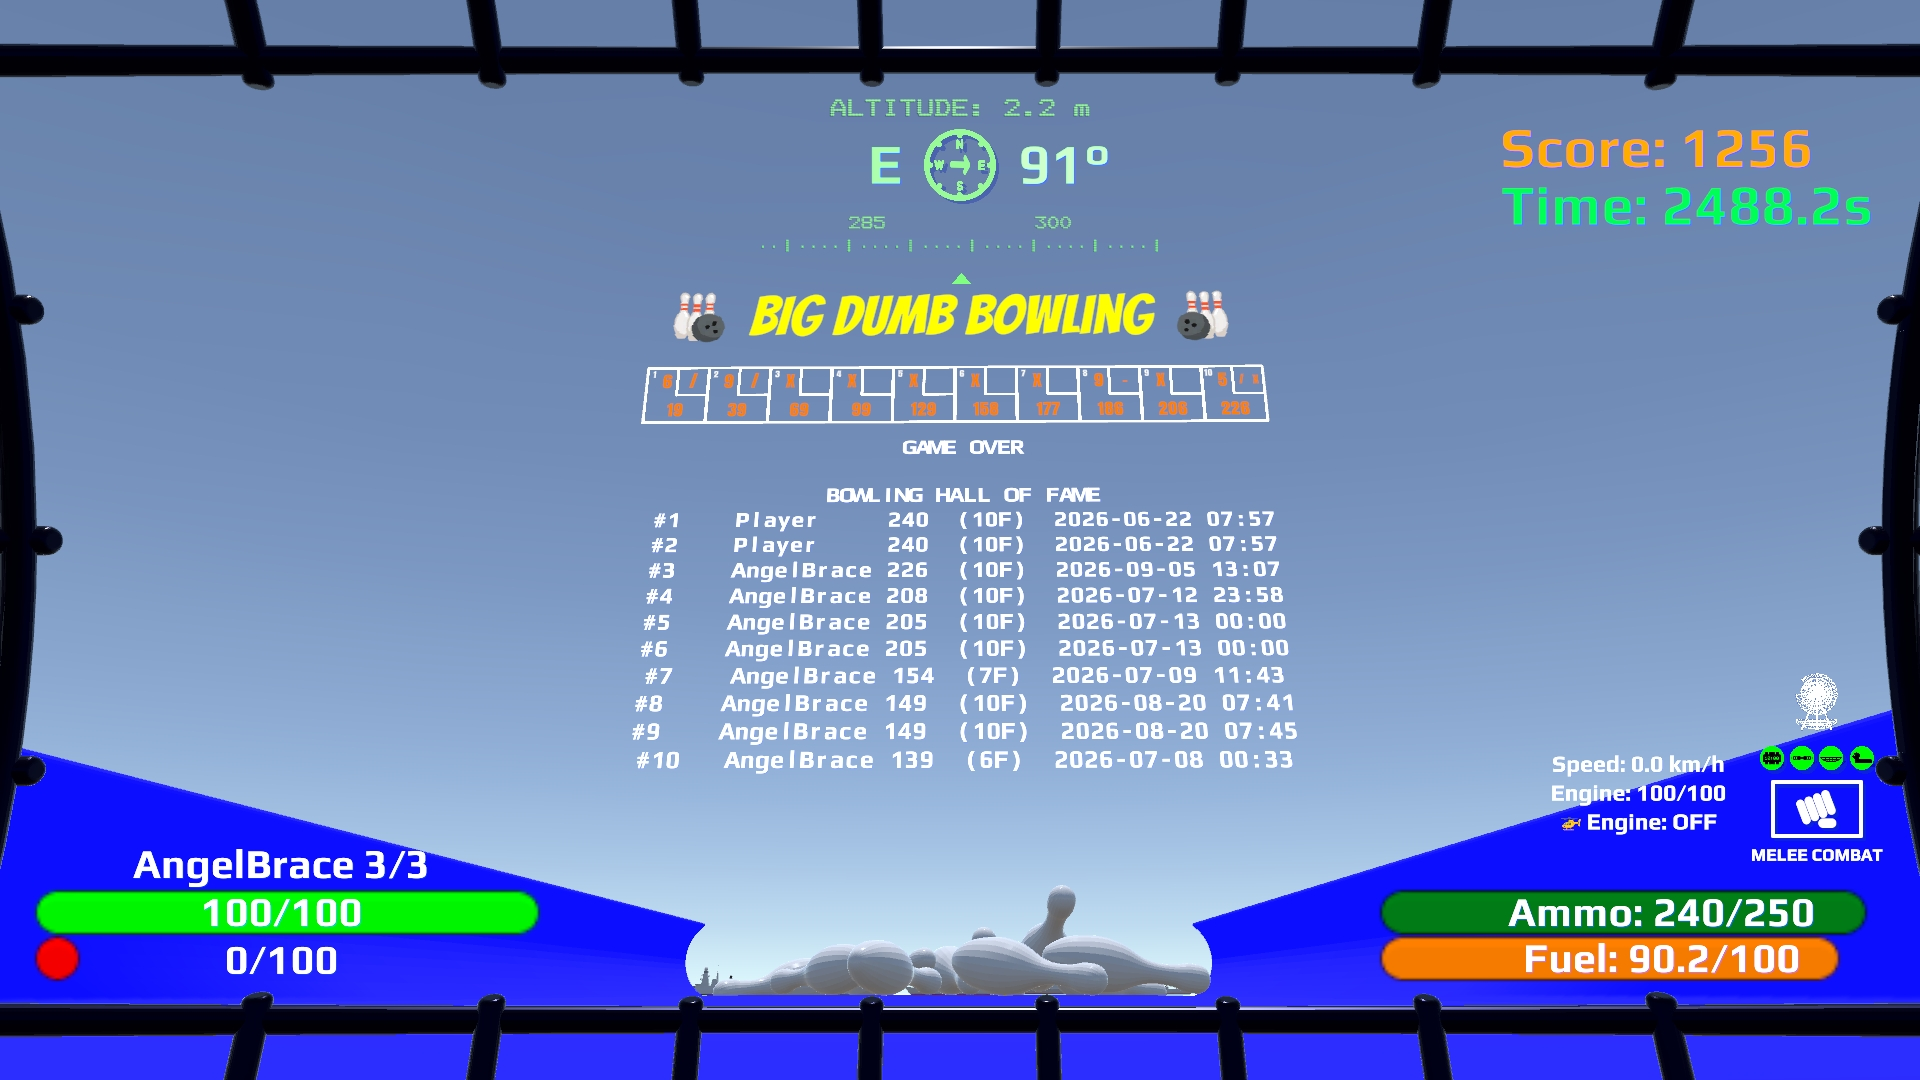
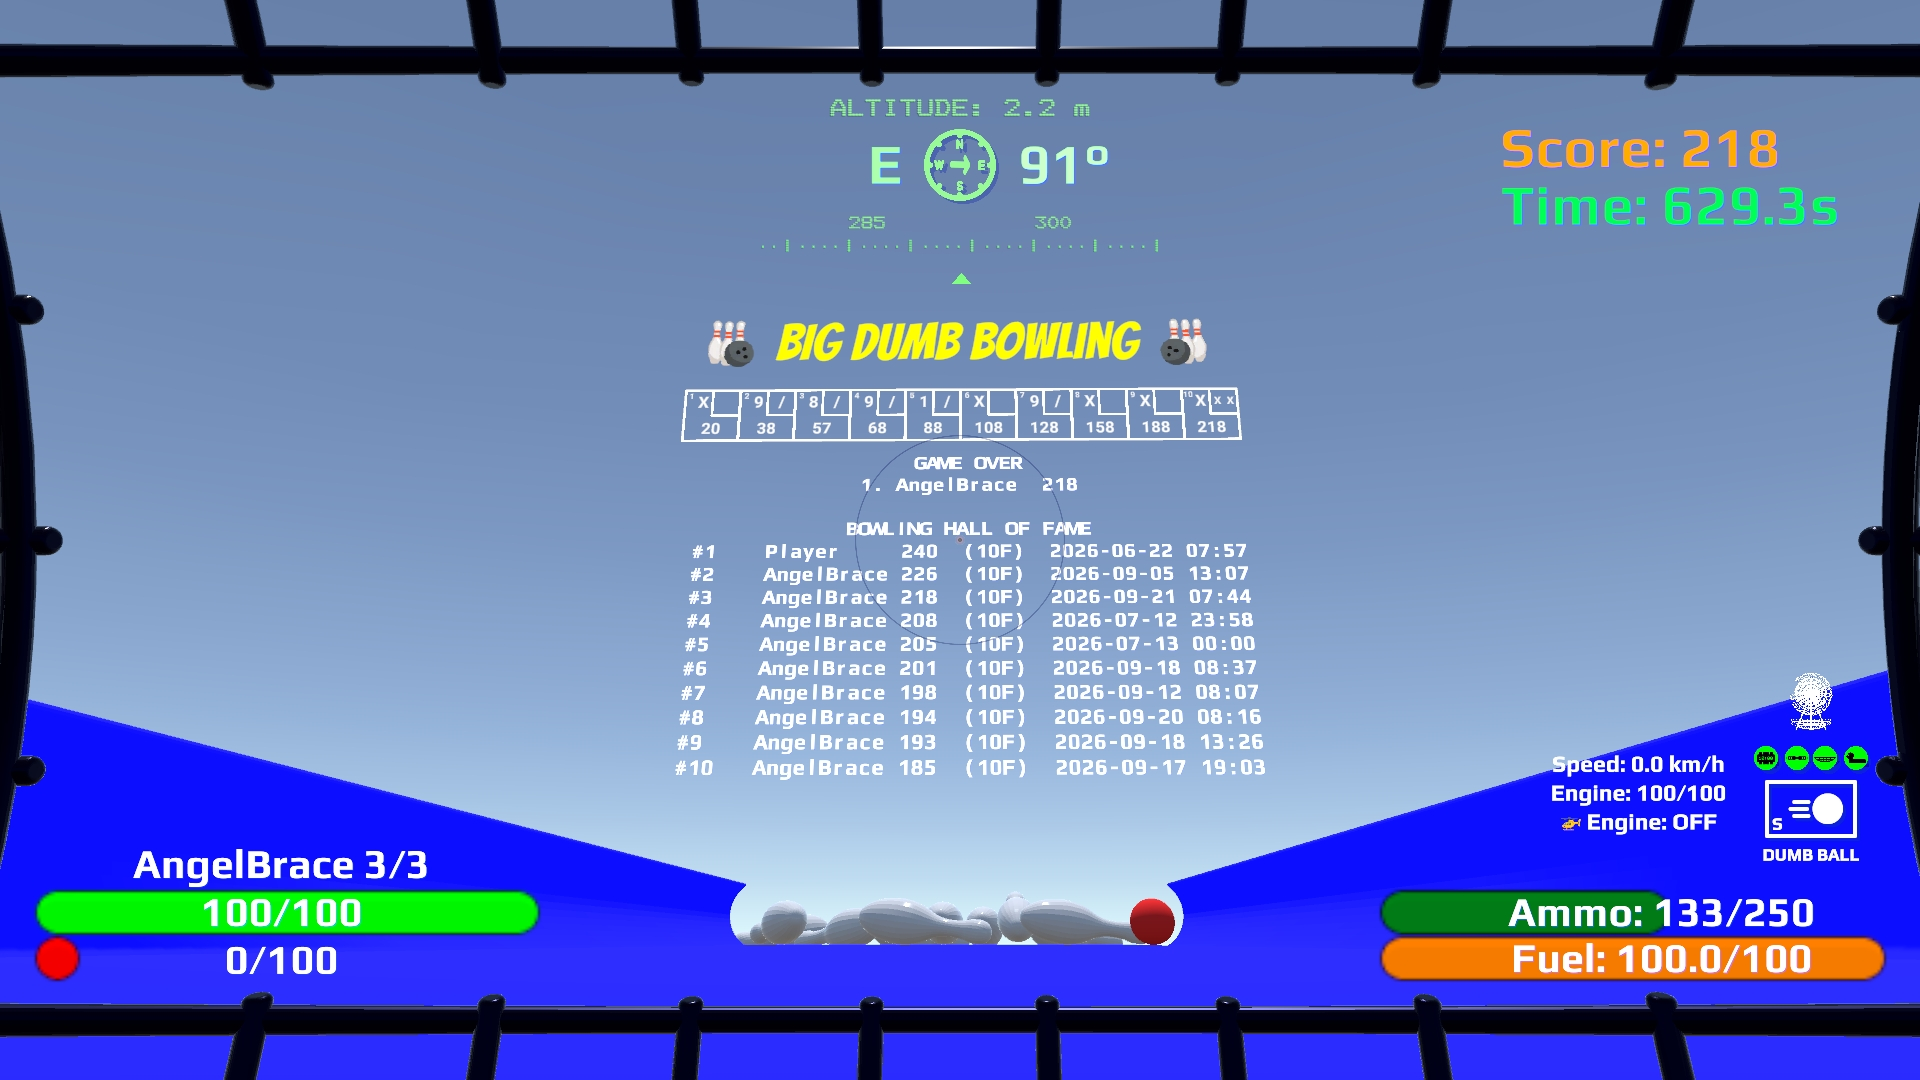
Publish the finished guide screenshots and the live multiplayer rules.

diff --git a/index.html b/index.html
@@ -302,11 +302,15 @@
         <strong>Live multiplayer session:</strong> after a Play / Explore run is already going, the <strong>host</strong>
         can pick another Play venue or Explore from <strong>Game Mode</strong>. Everyone stays in the same Photon room.
         The old mini-game ends — the Ray Racer bike is removed, and hockey bots are destroyed — then everyone
-        teleports to the new seats and gets a <strong>lobby</strong> (no auto-start). Walk to that venue’s OPS / stele
-        and press <strong>START</strong> there. Combat modes (Modern / Quest / Classic / Infinite) stay a full
-        <strong>New Game</strong>. <strong>New Game</strong> on your own machine does the same cleanup before the next mode starts.
+        is moved to the new game. That game is <strong>reset to a lobby</strong>. A match that was already going does not
+        continue, and the new one does not start by itself. The host’s OPS for that game opens so the host can press
+        <strong>Start</strong>. Chess resets the board at the stele. Explore only moves everyone.
+        Combat modes (Modern / Quest / Classic / Infinite) stay a full
+        <strong>New Game</strong>. <strong>New Game</strong> on your own machine does the same cleanup before the next mode starts,
+        and it does not restart the other rider.
         Guests cannot switch. Overlays such as Game Selection close so everyone returns to the
         <strong>3DGameHUD</strong>; leftover Game Info balloon text from the previous venue is cleared.
+        The other rider’s bike follows a short moment behind, so the motion stays smooth.
       </p>
       <h3>The Escaper (Modern)</h3>
       <p>
@@ -935,6 +939,9 @@
         <strong>Game Roster</strong> sits on the HUD. Ray Racer fills the bars it has riders for.
         Solo, with the cursor free, right-click a Ray Racer bar to open that bike’s color list.
         Hockey uses all eight bars: Team A on the first four, Team B on the last four. Empty hockey bars say <strong>Open</strong>.
+        Until the host rearranges them, the host is the Team A captain on the top bar and the first other rider is the Team B captain on the first bottom bar.
+        The host can drag a name from one side to the other while the cursor is free. Drop it on a name to swap. Drop it on <strong>Open</strong> to move.
+        Each header shows that side’s captain nickname in the captain’s ray color. An empty side stays <strong>Team A</strong> or <strong>Team B</strong>.
         <br><br>
         <strong>Score history:</strong> <kbd>F8</kbd> is the pause scores panel.
         The <strong>3D GameScoreBoard</strong> at the south of the island is a separate history of solo and multiplayer scores, including Ray Racer and Hockey.
@@ -1488,7 +1495,7 @@ AngelBraceToo Sunk: ST-9, ST-11, 8</pre>
         <li><strong>Free Ray</strong> — mouse look also turns the bike.</li>
         <li><strong>Classic Tron</strong> — travel stays on the compass. A left or right press is saved, and the bike turns 90 degrees only when it reaches the next even grid line (every 2 units). Odd positions do not turn. The view eases into the new heading.</li>
         <li>Hold <kbd>Shift</kbd> while going forward to boost. The engine overheats if you hold it too long, then cools before boost works again.</li>
-        <li>A wall, a pillar, or a light-cycle beam stops you. The camera orbits that rider while everyone else keeps moving, and the beam sinks.</li>
+        <li>A wall, a pillar, or a light-cycle beam stops you. The other rider’s beam stops you too, including the piece still being drawn. Your own ribbon does not, until it is a finished wall. The camera orbits that rider while everyone else keeps moving, and the beam sinks.</li>
         <li><strong>Continue</strong> puts you back in the race where you stopped when a life remains, with no new countdown.</li>
         <li><strong>Restart</strong> on that panel starts another Ray Racer round and returns to Ready. It does not dump you to Game Selection.</li>
       </ul>
@@ -1510,9 +1517,9 @@ AngelBraceToo Sunk: ST-9, ST-11, 8</pre>
       <p>
         <strong>Play Hockey</strong> seats the room at the eight spots around the rink
         (<strong>HockeyPlayer1</strong> through <strong>HockeyPlayer8</strong>).
-        Walk onto a team stand to join that side.
-        The host is always captain of <strong>Team A</strong>, even if they walk to the other stand.
-        The first rider who stays on <strong>Team B</strong> is that side’s captain.
+        The host starts as captain of <strong>Team A</strong>.
+        In a room, the first other rider starts as captain of <strong>Team B</strong>.
+        The host can drag either of them, or any bot, to the other side.
         Console <code>/hockey</code> turns the arena on if it was left inactive for a build.
       </p>
       <p>
@@ -1558,12 +1565,13 @@ AngelBraceToo Sunk: ST-9, ST-11, 8</pre>
       <ul>
         <li>Drive into the puck and it leaves along the nose. That is a straight nudge or slap. <kbd>LMB</kbd> kicks left. <kbd>RMB</kbd> kicks right.</li>
         <li>Cruise speed is a nudge. Full speed is a slap, capped by the arena’s max puck speed. Between those, the kick grows with the bike.</li>
-        <li>Bots do the same. Lined up on the enemy net, the kick is straight. Off that line, they pick a side.</li>
+        <li>You can ride up the curved sides of the rink. The other rider follows that path.</li>
+        <li>Bots do the same, and they ride the curve too. Lined up on the enemy net, the kick is straight. Off that line, they pick a side.</li>
         <li>You and any online rider can leave or enter through the nets. Bots cannot drop below the ice.</li>
         <li>A puck that leaves the play zone respawns at center. A shot that beats the goal mouth, or the stand just behind that mouth, scores for the other team.</li>
       </ul>
       <h3>Roster</h3>
-      <p>Once <kbd>E</kbd> has freed the cursor, right-click a bar:</p>
+      <p>Once <kbd>E</kbd> has freed the cursor, the host can drag a name between Team A and Team B. Drop it on a name to swap. Drop it on <strong>Open</strong> to move. Right-click a bar:</p>
       <ul>
         <li><strong>Open</strong> → <strong>Activate</strong>. That adds a bot on that team.</li>
         <li>A bot → <strong>Color</strong> and <strong>Deactivate</strong>.</li>
@@ -1648,15 +1656,15 @@ AngelBraceToo Sunk: ST-9, ST-11, 8</pre>
         <li><strong>Direction indicators</strong> — quest items clockwise in the order you get them (bowl, propeller, duck raft); <strong>FlipChip</strong> is on the same band but is not a quest item. Icons slide with bearing and scale with distance; DetPack has inventory only, no arrow.</li>
         <li><strong>Scores</strong> — <kbd>F8</kbd> open, <kbd>Space</kbd> cycle (Escaper, Bowling, Billiards, BaffleShots, Chess, Tetris, Checkers, Connect 4, Ray Racer, Hockey). The south <strong>GameScoreBoard</strong> is the 3D history and does not open F8. Shared rooms merge that history so a visitor can read scores recorded on another computer.</li>
         <li><strong>Whose turn / who won</strong> — top HUD ~7s (Pool also shows <strong>Wins!</strong>); <kbd>Caps Lock</kbd> for the balloon. <strong>Tetris</strong> is live — 2P shows <strong>Players Ready</strong>, then <strong>Wins!</strong> / <strong>You Lose!</strong> / <strong>Draw!</strong> / <strong>Co-op Clear!</strong> / <strong>Sprint Clear!</strong> / <strong>Time's Up!</strong>.</li>
-        <li><strong>Mini-game host</strong> — only the host (the player who started the room) opens, starts, resets, and (Pool) changes mode; everyone else <kbd>RMB</kbd> joins while recruiting (<strong>Pool:</strong> host <kbd>Shift</kbd>+<kbd>LMB</kbd> opens lobby first; guest <kbd>RMB</kbd> or <strong>Join</strong> on the yellow grid at the table). <strong>Live venue switch:</strong> host <strong>Game Mode</strong> hops Play / Explore mid-session (combat modes = New Game). <strong>Tetris:</strong> host Engage at OPS, then <strong>South Play Spot</strong> for <strong>5s</strong> to start Playing; guests claim North via non-host <strong>Start</strong>; spawn host South / guest North. <strong>BaffleShots:</strong> East host / West guest; Confirm then host Start (Waiting… if the host locked first); fog until hits; host owns Classic / Group Sink / Repulse Mines settings. <strong>Checkers:</strong> host owns variant wheel, Start, Reset; guest <strong>Join</strong> marks lobby; <strong>FlipChip</strong> button + pre-game toss sets Player1/Host color before <strong>Start</strong>. <strong>Chess 2P:</strong> host START / Clear only; no Level / Puzzles / Custom / Leorik on the stele.</li>
+        <li><strong>Mini-game host</strong> — only the host (the player who started the room) opens, starts, resets, and (Pool) changes mode; everyone else <kbd>RMB</kbd> joins while recruiting (<strong>Pool:</strong> host <kbd>Shift</kbd>+<kbd>LMB</kbd> opens lobby first; guest <kbd>RMB</kbd> or <strong>Join</strong> on the yellow grid at the table). <strong>Live venue switch:</strong> host <strong>Game Mode</strong> hops Play / Explore mid-session, resets that game to a lobby, and opens its OPS so the host can press <strong>Start</strong> (combat modes = New Game; Chess resets at the stele). <strong>Tetris:</strong> host Engage at OPS, then <strong>South Play Spot</strong> for <strong>5s</strong> to start Playing; guests claim North via non-host <strong>Start</strong>; spawn host South / guest North. <strong>BaffleShots:</strong> East host / West guest; Confirm then host Start (Waiting… if the host locked first); fog until hits; host owns Classic / Group Sink / Repulse Mines settings. <strong>Checkers:</strong> host owns variant wheel, Start, Reset; guest <strong>Join</strong> marks lobby; <strong>FlipChip</strong> button + pre-game toss sets Player1/Host color before <strong>Start</strong>. <strong>Chess 2P:</strong> host START / Clear only; no Level / Puzzles / Custom / Leorik on the stele.</li>
         <li><strong>Checkers</strong> — solo is always vs AI (Player1 = you), a multiplayer room is always 2P. Wheel the OPS panel for the variant (locks on Start or the first move, unlocks on host Reset). <strong>FlipChip</strong> before <strong>Start</strong>: top color = Player1/Host color (default Black). On the board: stand on a piece (<strong>blue</strong>), aim a <strong>green sphere</strong> to land or a <strong>green circle</strong> to capture (aim brightens green), <kbd>RMB</kbd> to pend (<strong>orange</strong>), <kbd>LMB</kbd> to commit, <kbd>Backspace</kbd> to cancel. <kbd>Tab</kbd> opens <strong>Quick2DCheckersBoard</strong> — a 2D display of the 3D board, not a second control scheme. Aim the far sphere to take a whole jump chain; once a chain starts you must finish it.</li>
         <li><strong>BaffleShots</strong> — stand on the yellow grid at Nav OPS. Nav Plan randomizes fleet (+ Repulse Mines if on); <kbd>RMB</kbd> drag ships or mines in setup. Classic hides <strong>Group?</strong> / <strong>Ship?</strong> until a group sinks (Group Sink stays on). Hits are orange until sunk, then red. A hit mine <strong>repulses</strong> the shot back — attacker repairs and skips a turn, opponent gets a bonus shot. Game over reveals leftover ships/mines. <strong>2P Confirm:</strong> host first → Waiting… then Start; guest first → host button is Start.</li>
         <li><strong>Pool cue</strong> — walk onto the cue to shoot (wheel = power, <kbd>LMB</kbd> = stroke). A pocketed or off-table cue is <em>Cue scratched</em> when the balls stop; a ball you legally pocketed on that shot still scores (<em>Name sunk … — cue scratched</em>). The placer also sees <em>stand on cue + SHIFT</em>. Object balls off the table do not re-spot the cue.</li>
         <li><strong>Goto map</strong> — <kbd>F4</kbd> scrolls Otaku Island. A button’s name is the <code>/goto</code> place (<code>SouthParthenonButton</code> is <code>SouthParthenon</code>).</li>
         <li><strong>Tetris</strong> — Engage → host on South <strong>5s</strong> → Playing. Offline includes Marathon, Sprint, and Ultra. In a room the host wheel is 2-player only. Clamp on a PlayZone block (blue South / red North): stay still <strong>3s</strong> (or immediately if already there). While clamped the cage cannot walk — WASD moves the piece. Jump off to break clamp. Stick/D-Pad or <kbd>A</kbd>/<kbd>D</kbd> move, <kbd>Q</kbd>/<kbd>LB</kbd> · <kbd>E</kbd>/<kbd>RB</kbd> rotate, <kbd>W</kbd>/stick↑ flip, <kbd>C</kbd>/<kbd>Y</kbd> Hold, soft or <kbd>RT</kbd> hard; leftover board stays until Start/Reset. <strong>Spawn:</strong> host South, guest North.</li>
-        <li><strong>Ray Racer</strong> — the deck is weapons-free. The host and the first three others ride; anyone else spectates (<strong>Previous</strong> / <strong>Escaper</strong> / <strong>Next</strong>). A green <strong>READY</strong> button (or <kbd>Enter</kbd> / gamepad <kbd>A</kbd>) starts the countdown; a room waits until every rider has pressed Ready. <kbd>E</kbd> hides Ready and opens <strong>RayRacerOPS</strong>. Then <strong>GRID</strong>, <strong>3</strong>, <strong>2</strong>, <strong>1</strong>, <strong>GO</strong>. Hold gas from <strong>2</strong> through <strong>GO</strong> for a rocket start; gas on the red <strong>3</strong> is a burnout. Opens in third person; <kbd>V</kbd> cycles Normal, Full Screen, Third Person. On the deck, <kbd>1</kbd>–<kbd>5</kbd> are cameras (chase, left, right, front, top) and weapons do not switch. Host mode wheel: <strong>Free Ray</strong> or <strong>Classic Tron</strong> (90-degree turns on even 2-unit lines). Host <strong>Theme</strong> recolors the floor, grid, border, and pillars. Host sky, grid-line, and floor-fade sliders. Your music and bike color. Solo, with the cursor free, right-click a Game Roster bar for that bike’s color. The computer bike is grey with a white ray. A wall, pillar, or beam crashes you. <strong>Continue</strong> uses a remaining life with no new countdown. <strong>Start</strong> / <strong>Reset</strong> / <strong>Restart</strong> begin a fresh round at Ready. <code>/tron</code> is 1 life, <code>/raylives</code> is 3. Off the island, <kbd>E</kbd> mounts or dismounts a Ray Racer bike you have found, and does nothing if you have not found one. On the GamePlane that bike is scale 1.</li>
+        <li><strong>Ray Racer</strong> — the deck is weapons-free. The host and the first three others ride; anyone else spectates (<strong>Previous</strong> / <strong>Escaper</strong> / <strong>Next</strong>). A green <strong>READY</strong> button (or <kbd>Enter</kbd> / gamepad <kbd>A</kbd>) starts the countdown; a room waits until every rider has pressed Ready. <kbd>E</kbd> hides Ready and opens <strong>RayRacerOPS</strong>. Then <strong>GRID</strong>, <strong>3</strong>, <strong>2</strong>, <strong>1</strong>, <strong>GO</strong>. Hold gas from <strong>2</strong> through <strong>GO</strong> for a rocket start; gas on the red <strong>3</strong> is a burnout. Opens in third person; <kbd>V</kbd> cycles Normal, Full Screen, Third Person. On the deck, <kbd>1</kbd>–<kbd>5</kbd> are cameras (chase, left, right, front, top) and weapons do not switch. Host mode wheel: <strong>Free Ray</strong> or <strong>Classic Tron</strong> (90-degree turns on even 2-unit lines). Host <strong>Theme</strong> recolors the floor, grid, border, and pillars. Host sky, grid-line, and floor-fade sliders. Your music and bike color. Solo, with the cursor free, right-click a Game Roster bar for that bike’s color. The computer bike is grey with a white ray. A wall, pillar, or beam crashes you. The other rider’s beam crashes you too, including the piece still being drawn. Your own ribbon does not, until it is a finished wall. <strong>Continue</strong> uses a remaining life with no new countdown. <strong>Start</strong> / <strong>Reset</strong> / <strong>Restart</strong> begin a fresh round at Ready. <code>/tron</code> is 1 life, <code>/raylives</code> is 3. Off the island, <kbd>E</kbd> mounts or dismounts a Ray Racer bike you have found, and does nothing if you have not found one. On the GamePlane that bike is scale 1.</li>
         <li><strong>Room chat</strong> — in a Photon room, <kbd>G</kbd> opens the panel. A plain line goes to everyone. <code>@Nick</code> is a private whisper. During hockey, <code>@ATeam</code>, <code>@BTeam</code>, and <code>@team</code> are side chat. <code>/me</code>, <code>/who</code>, <code>:puck:</code>, <code>:wave:</code>, <code>:star:</code>. Host <code>/ban @Nick</code> and <code>/unban @Nick</code>. <code>/ignore</code> is only your chat. The same commands work in the <kbd>F9</kbd> console. An incoming line flashes that rider’s Game Roster bar.</li>
-        <li><strong>Hockey Arena</strong> — eight spots, four a side. Host is Team A captain. Walk to a stand to join. <kbd>E</kbd> inside any arena collider opens <strong>Hockey Arena OPS</strong> (Start, Reset, Fill open seats) and frees the cursor, including during a game. The puck drops onto center ice at face-off. <kbd>LMB</kbd> kicks left, <kbd>RMB</kbd> kicks right, and neither is a straight hit along the nose. Cruise nudges; full speed slaps. A goal toast reads <strong>Red scores for A Team</strong>. The sky board shows <strong>A 1&nbsp;&nbsp;&nbsp;&nbsp;B 0</strong>. Wheels and the net you defend use the captain’s ray color; the body color stays personal. With the cursor free, right-click an <strong>Open</strong> bar to <strong>Activate</strong> a bot, or a bot for <strong>Color</strong> / <strong>Deactivate</strong>. Even game: host plus seven bots. Solo bots are remembered next launch. In a room the host and the first seven others play; the rest spectate. First to 3. Humans can ride out through the nets; bots stay on the ice.</li>
+        <li><strong>Hockey Arena</strong> — eight spots, four a side. The host starts as Team A captain. The first other rider starts as Team B captain. With the cursor free, the host can drag a name to the other side: drop on a name to swap, drop on <strong>Open</strong> to move. The headers show those captains’ nicknames in their ray colors. <kbd>E</kbd> inside any arena collider opens <strong>Hockey Arena OPS</strong> (Start, Reset, Fill open seats) and frees the cursor, including during a game. The puck drops onto center ice at face-off. <kbd>LMB</kbd> kicks left, <kbd>RMB</kbd> kicks right, and neither is a straight hit along the nose. Cruise nudges; full speed slaps. You can ride up the curved sides. A goal toast reads <strong>Red scores for A Team</strong>. The sky board shows <strong>A 1&nbsp;&nbsp;&nbsp;&nbsp;B 0</strong>. Wheels and the net you defend use the captain’s ray color; the body color stays personal. Right-click an <strong>Open</strong> bar to <strong>Activate</strong> a bot, or a bot for <strong>Color</strong> / <strong>Deactivate</strong>. Even game: host plus seven bots. Solo bots are remembered next launch. In a room the host and the first seven others play; the rest spectate. First to 3. Humans can ride out through the nets; bots stay on the ice.</li>
         <li><strong>ESC</strong> — pause / Game Selection (HUD off); during death or victory, second <kbd>ESC</kbd> returns to the orbit with <strong>Continue</strong> / <strong>Restart</strong>. On the Ray Racer deck, <kbd>ESC</kbd> closes <strong>RayRacerOPS</strong> before it opens Game Selection.</li>
         <li><strong>Lives</strong> — 3 lives; <strong>Continue</strong> respawns; <strong>Restart</strong> after the last life or a victory. <strong>GAME OVER</strong> means the run is finished.</li>
         <li><strong>Ocean landing</strong> — falling into Ocean-tagged water has no fall impact; land and buildings still deal fall damage.</li>
